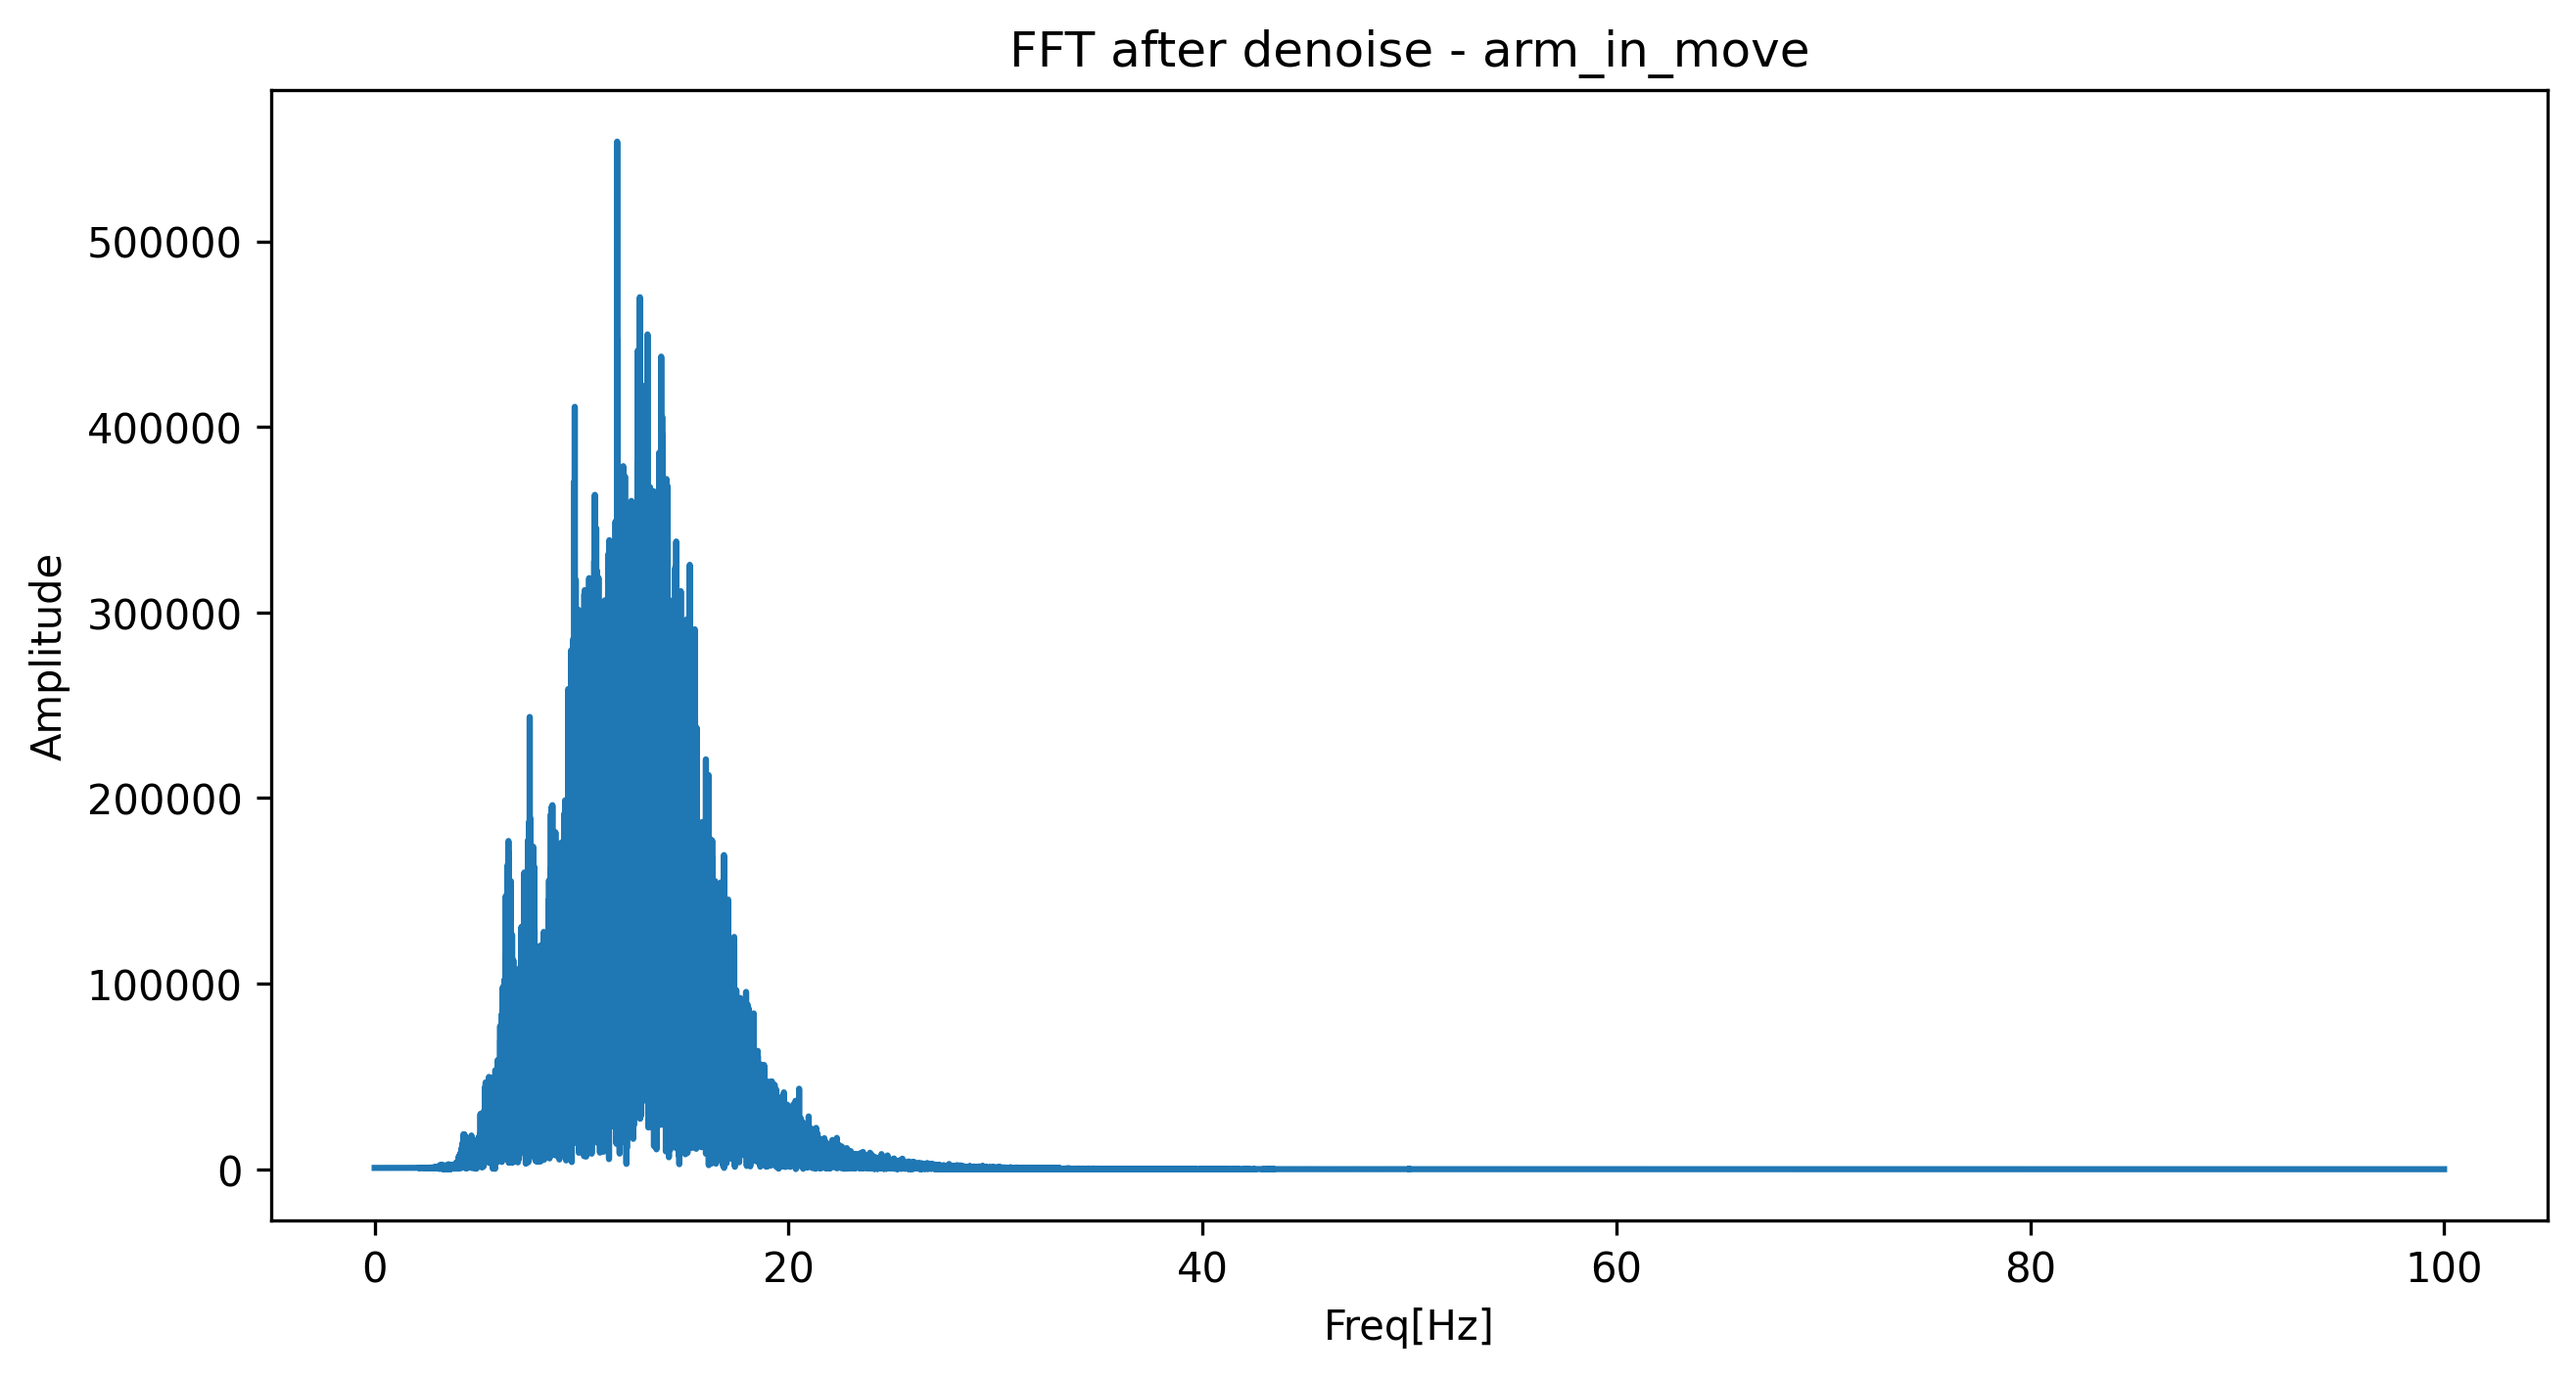
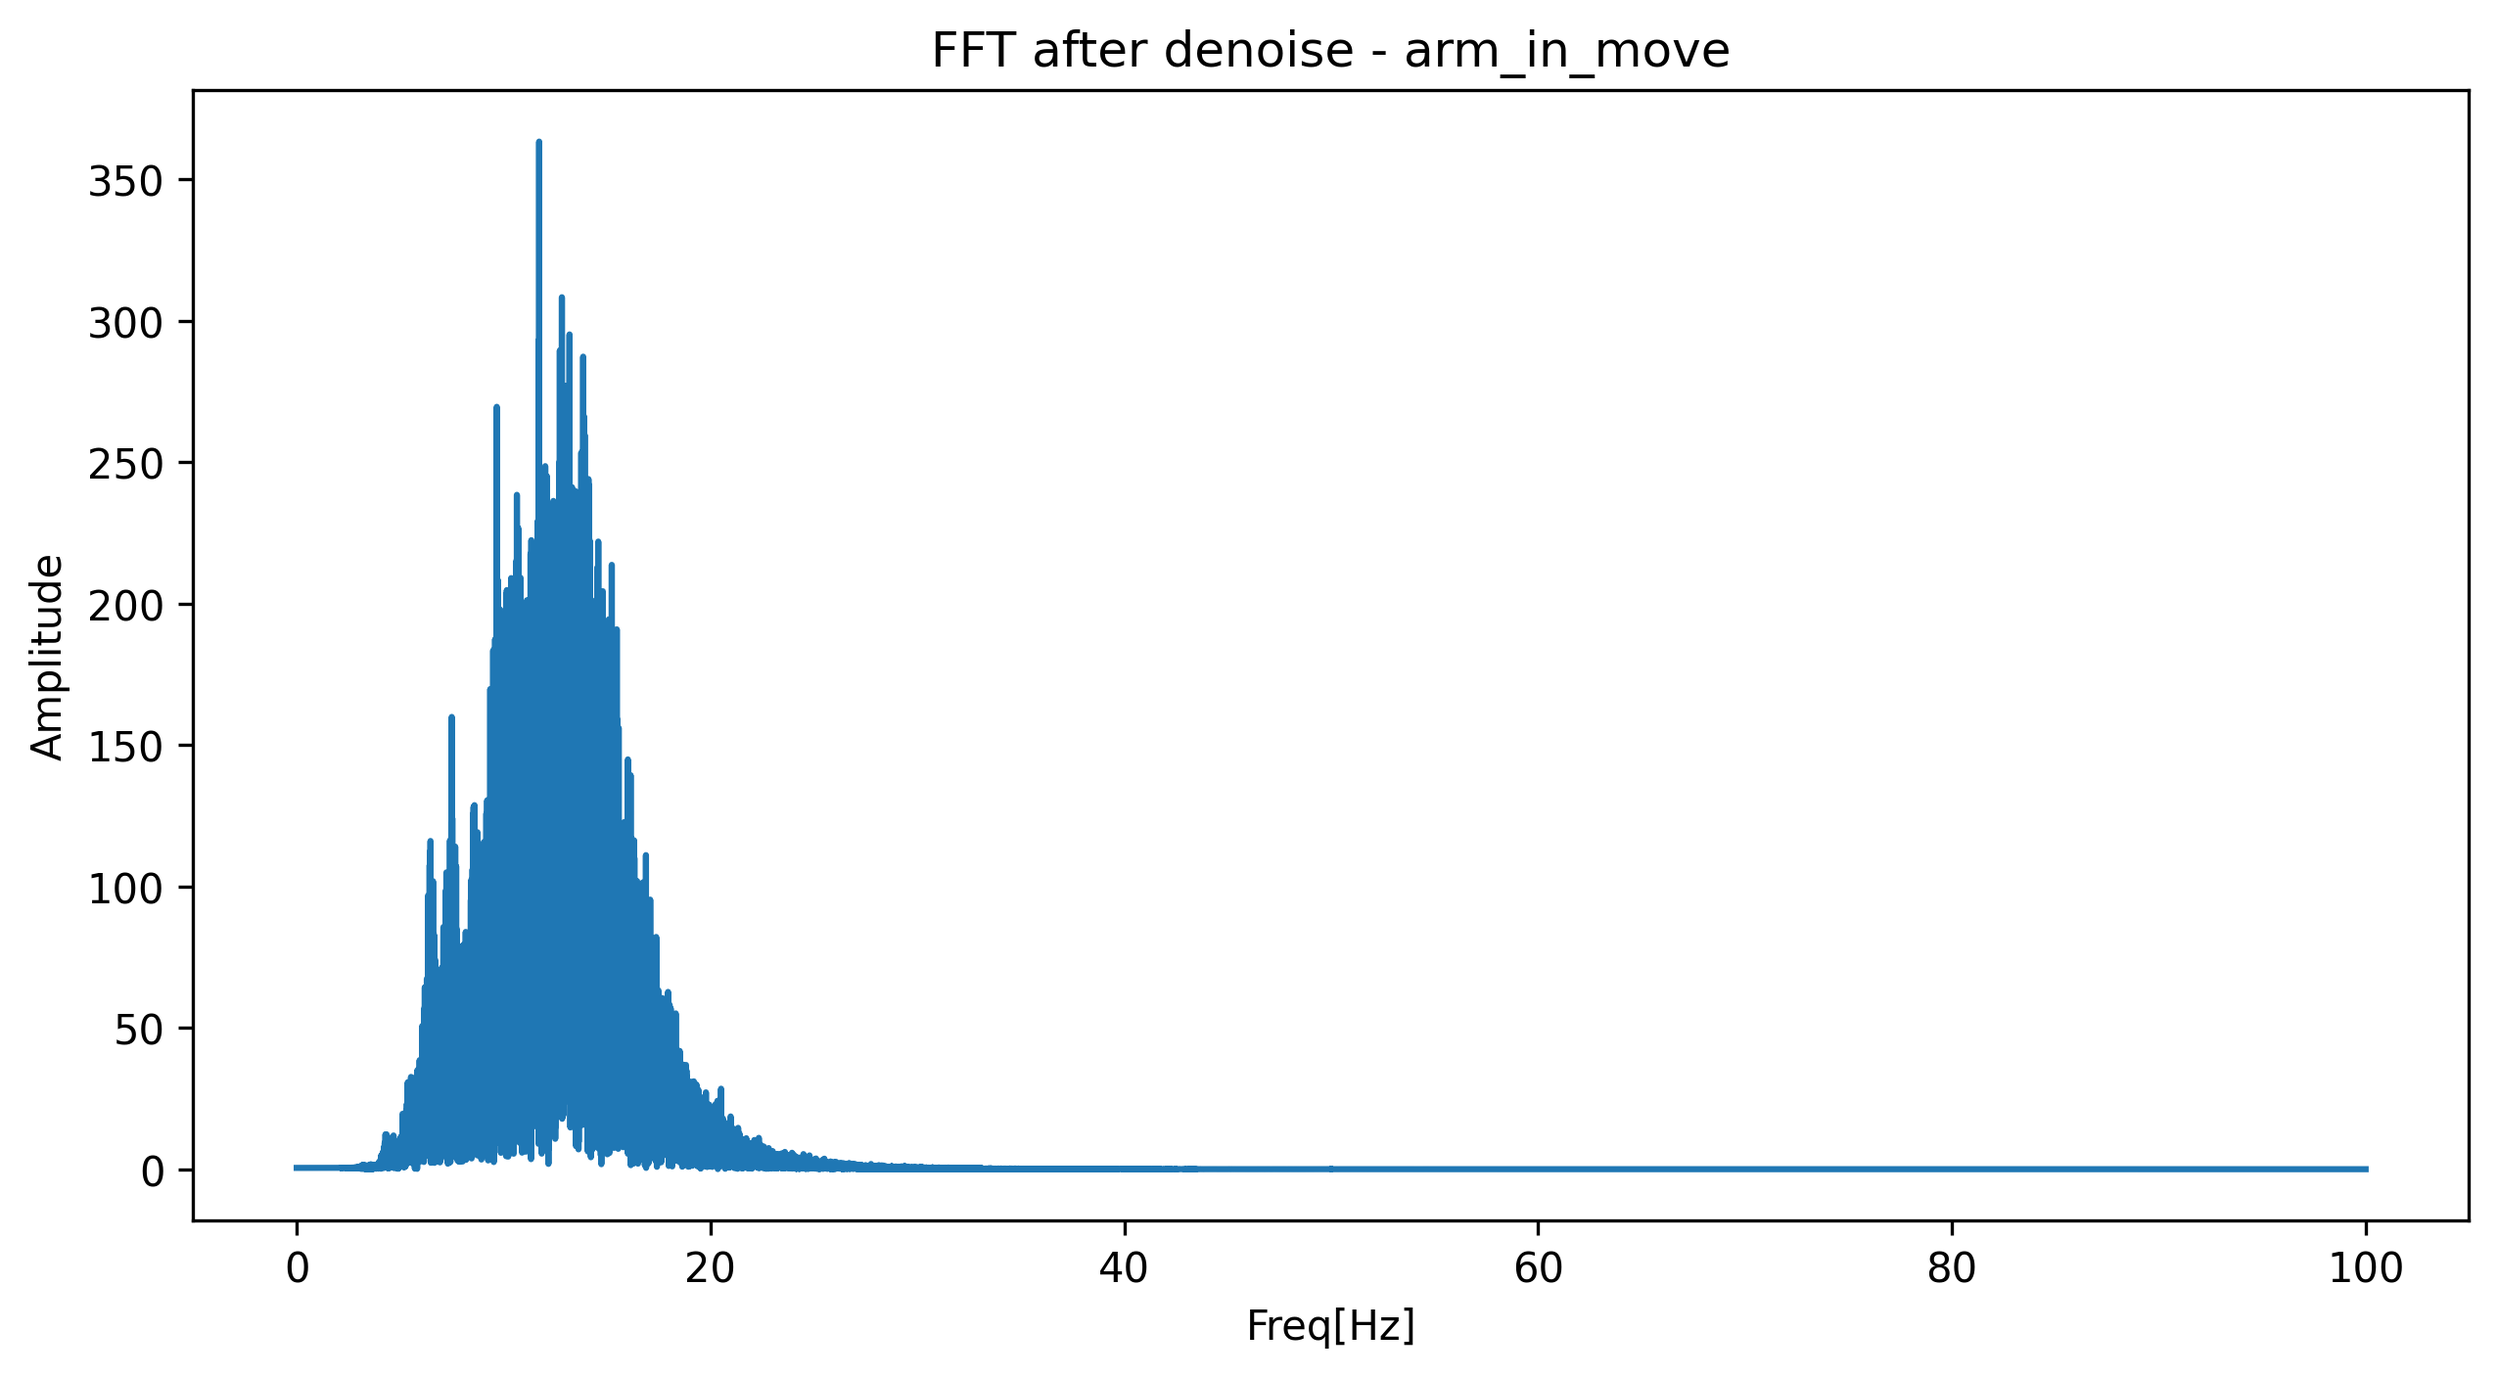
final

diff --git a/main.py b/main.py
@@ -1,126 +1,37 @@
 import numpy as np
-import matplotlib.pyplot as plt
 import pandas as pd
 from scipy import signal
-from import_data import import_from_files, get_filenames, get_tablename
+from import_data import get_filenames, get_tablename, import_from_files
+from plots import plot_fourier, plot_results
+from signal_processing import normalize, denoise, fourier, find_p_and_t, find_r_peaks, calculate_bpm
 from read_data import read_from_db
 
-def denoise(df: pd.DataFrame, derivative_filter: bool = True) -> tuple[pd.DataFrame, float]:
-    df = df.sort_values("timestamp").reset_index(drop=True)
-    df = df.set_index("timestamp")
-    dt: float = df.index.to_series().diff().median()
-    fs = 1/dt
-    lowcut = 5
-    highcut = 15
-    order = 3
-
-    b, a = signal.butter(N=order, Wn=[lowcut, highcut], btype="bandpass", fs=fs)
-    filtered = signal.filtfilt(b, a, df['value'].values)
-    if derivative_filter:
-        h = np.array([1, 2, 0, -2, -1])
-        filtered = signal.filtfilt(h, 1, filtered)
-    df['filtered'] = filtered
-
-    return df, fs
-
-def fourier(values, fs) -> tuple:
-    fft_values = np.fft.fft(values)
-    fft_frequencies = np.fft.fftfreq(len(values), d=1/fs)
-
-    mask = fft_frequencies > 0
-    fft_frequencies = fft_frequencies[mask]
-    fft_values = np.abs(fft_values[mask])
-    
-    return fft_frequencies, fft_values
-
-def plot_fourier(fft_frequencies, fft_values, title, filename) -> None:
-    plt.figure(figsize=(10, 5))
-    plt.plot(fft_frequencies, fft_values)
-    plt.xlabel('Freq[Hz]')
-    plt.ylabel('Amplitude')
-    plt.title(title)
-    plt.savefig(f"results/{filename}.png", dpi=300, bbox_inches="tight")
-    plt.show()
-
-def find_p_and_t(fs, filtered_data, r_peaks):
-    p_peaks = []
-    t_peaks = []
-
-    for r in r_peaks:
-        start_p = max(0, r - int(0.12*fs))
-        end_p = max(0, r - int(0.05*fs))
-        p_window = filtered_data[start_p: end_p]
-        if len(p_window):
-            p = np.argmax(p_window) + start_p
-            p_peaks.append(p)
-
-        start_t = r + int(0.08 * fs)
-        end_t = min(len(filtered_data), r + int(0.24 * fs))
-        t_window = filtered_data[start_t: end_t]
-        if len(t_window):
-            t = np.argmax(t_window) + start_t
-            t_peaks.append(t)
-
-    return p_peaks, t_peaks
-    
-def plot_results(df: pd.DataFrame, r_peaks: list, p_peaks: list, t_peaks: list, tablename: str) -> None:
-    t = df.index.to_numpy()
-    min_secs = 200
-    max_secs = 210
-    mask = (t >= min_secs) & (t <= max_secs)
-
-    values = df['value'].to_numpy()
-    filtered = df['filtered'].to_numpy()
-    
-    plt.figure(figsize=(12,4))
-    plt.plot(t[mask], values[mask], label="Surowy sygnal")
-    plt.plot(t[mask], filtered[mask], label="Wyfiltrowany sygnal")
-
-    rpq_mask = lambda x: [i for i in x if t[i] >= min_secs and t[i] <= max_secs]
-    
-    r_window = rpq_mask(r_peaks)
-    p_window = rpq_mask(p_peaks)
-    t_window = rpq_mask(t_peaks)
-    
-    plt.scatter(t[r_window], filtered[r_window], color="red", label="R")
-    plt.scatter(t[p_window], filtered[p_window], color="green", label="P")
-    plt.scatter(t[t_window], filtered[t_window], color="blue", label="T")
-
-    plt.xlabel("Time[s]")
-    plt.ylabel('EKG')
-    plt.title(f"R, P, T peaks in {min_secs} - {max_secs} seconds - {tablename}")
-    plt.legend()
-    plt.savefig(f"results/ekg_{tablename}.png", dpi=300, bbox_inches="tight")
-    plt.show()
-    
-def _main(filename: str, plot_fourier: bool = True) -> None:
+def _main(filename: str, plot_f: bool = True) -> None:
     tablename = get_tablename(filename)
     df = read_from_db(tablename=tablename)
     if df is None:
         print("Error")
         return
     df: pd.DataFrame
+    df = normalize(df)
     df, fs = denoise(df)
-
     
-    if plot_fourier:
+    if plot_f:
         fft_freq, fft_values = fourier(df['value'].values, fs)
         plot_fourier(fft_freq, fft_values, f"FFT before denoise - {tablename}", f"fft_no_denoised_{tablename}")
         fft_freq, fft_values = fourier(df['filtered'].values, fs)
         plot_fourier(fft_freq, fft_values, f"FFT after denoise - {tablename}", f"fft_denoised_{tablename}")
 
     filtered_data = df['filtered'].to_numpy()
-    min_dist = int(200 * 60 / 180)
-    
-    height = np.mean(filtered_data) + np.std(filtered_data)
-    r_peaks, _ = signal.find_peaks(filtered_data, distance=min_dist, height=height)
 
+    r_peaks = find_r_peaks(fs, filtered_data, tablename)
+    r_times = df.index.to_numpy()[r_peaks].astype("float")
+        
     p_peaks, t_peaks = find_p_and_t(fs, filtered_data, r_peaks)
 
-    r_to_r_times = np.diff(pd.to_datetime(df.index.to_numpy()[r_peaks]).astype("int64"))
-    bpm_avg = 60 / np.mean(r_to_r_times)
+    bpm_avg = calculate_bpm(r_times)
 
-    print(f"Avg BPM: {bpm_avg}")
+    print(f"Avg BPM: {bpm_avg:.1f}")
 
     plot_results(df, r_peaks, p_peaks, t_peaks, tablename)
     

diff --git a/signal_processing.py b/signal_processing.py
@@ -1,0 +1,86 @@
+import numpy as np
+import pandas as pd
+from scipy import signal
+
+
+def normalize(df: pd.DataFrame):
+    # Normalize signal to [-1; 1]
+    df['value_copy'] = df['value']
+    df['value'] = df['value'] - df['value'].mean()
+    df['value'] = df['value'] / np.max(np.abs(df['value']))
+    return df
+
+def denoise(df: pd.DataFrame, derivative_filter: bool = True) -> tuple[pd.DataFrame, float]:
+    df = df.sort_values("timestamp").reset_index(drop=True)
+    df = df.set_index("timestamp")
+    dt = np.diff(df.index.to_numpy()).astype("float").mean()
+    fs = 1/dt # 200
+    # pan tompkins algorithm
+    lowcut = 5 
+    highcut = 15
+    n = 3
+    Wn = [lowcut, highcut]
+
+    b, a = signal.butter(N=n, Wn=Wn, btype="bandpass", fs=fs)
+    filtered = signal.filtfilt(b, a, df['value'].values)
+    
+    if derivative_filter:
+        # pan tompkins algorithm
+        h = np.array([1, 2, 0, -2, -1])
+        filtered = signal.filtfilt(h, 1, filtered)
+
+    # normalization
+    filtered = filtered / np.max(np.abs(filtered))
+    df['filtered'] = filtered
+
+    return df, fs
+
+def fourier(values, fs) -> tuple:
+    fft_values = np.fft.fft(values)
+    fft_frequencies = np.fft.fftfreq(len(values), d=1/fs)
+
+    mask = fft_frequencies > 0
+    fft_frequencies = fft_frequencies[mask]
+    fft_values = np.abs(fft_values[mask])
+    
+    return fft_frequencies, fft_values
+
+def find_r_peaks(fs, filtered_data, tablename):
+    # peak finding parameters
+    min_dist = round(200 * fs / 1000)
+    height = np.mean(filtered_data) + 0.7 * np.std(filtered_data)
+    PROMINENCES = {
+        "no_move": 0.7,
+        "in_move": 0.3
+    }
+    prominence_key = next(filter(lambda key: key in tablename, PROMINENCES.keys()), "")
+    prominence = PROMINENCES.get(prominence_key)
+    
+    r_peaks, _ = signal.find_peaks(filtered_data, distance=min_dist, height=height, prominence=prominence)
+    return r_peaks
+
+def find_p_and_t(fs, filtered_data, r_peaks):
+    p_peaks = []
+    t_peaks = []
+
+    for r in r_peaks:
+        start_p = max(0, r - int(0.12*fs))
+        end_p = max(0, r - int(0.05*fs))
+        p_window = filtered_data[start_p: end_p]
+        if len(p_window):
+            p = np.argmax(p_window) + start_p
+            p_peaks.append(p)
+
+        start_t = r + int(0.08 * fs)
+        end_t = min(len(filtered_data), r + int(0.24 * fs))
+        t_window = filtered_data[start_t: end_t]
+        if len(t_window):
+            t = np.argmax(t_window) + start_t
+            t_peaks.append(t)
+
+    return p_peaks, t_peaks
+
+def calculate_bpm(peak_times):
+    r_to_r_intervals = np.diff(peak_times)
+    bpm = 60 / np.mean(r_to_r_intervals)
+    return bpm

diff --git a/plots.py b/plots.py
@@ -1,0 +1,47 @@
+from matplotlib import pyplot as plt
+import pandas as pd
+
+
+def plot_results(df: pd.DataFrame, r_peaks: list, p_peaks: list, t_peaks: list, tablename: str) -> None:
+    t = df.index.to_numpy()
+    min_secs = 200
+    max_secs = 210
+    mask = (t >= min_secs) & (t <= max_secs)
+
+    values = df['value'].to_numpy()
+    filtered = df['filtered'].to_numpy()
+    
+    fig, axes = plt.subplots(2, 1, figsize=(12, 6))
+    axes[0].plot(t[mask], values[mask], label="Surowy sygnal")
+    axes[0].set_title("Raw EKG signal")
+    axes[0].set_ylabel("Amplitude")
+    axes[0].set_xlabel("Time[s]")
+
+    axes[1].plot(t[mask], filtered[mask], color="orange", label="Processed EKG signal")
+
+    rpq_mask = lambda x: [i for i in x if t[i] >= min_secs and t[i] <= max_secs]
+    
+    r_window = rpq_mask(r_peaks)
+    p_window = rpq_mask(p_peaks)
+    t_window = rpq_mask(t_peaks)
+    
+    axes[1].scatter(t[r_window], filtered[r_window], color="red", label="R")
+    axes[1].scatter(t[p_window], filtered[p_window], color="green", label="P")
+    axes[1].scatter(t[t_window], filtered[t_window], color="blue", label="T")
+
+    axes[1].set_xlabel("Time[s]")
+    axes[1].set_ylabel('Amplitude')
+    axes[1].set_title(f"Processed EKG signal with R, P, T peaks in <{min_secs};{max_secs}> seconds - {tablename}")
+    axes[1].legend()
+    plt.tight_layout()
+    plt.savefig(f"results/ekg_{tablename}.png", dpi=300, bbox_inches="tight")
+    plt.show()
+
+def plot_fourier(fft_frequencies, fft_values, title, filename) -> None:
+    plt.figure(figsize=(10, 5))
+    plt.plot(fft_frequencies, fft_values)
+    plt.xlabel('Freq[Hz]')
+    plt.ylabel('Amplitude')
+    plt.title(title)
+    plt.savefig(f"results/{filename}.png", dpi=300, bbox_inches="tight")
+    plt.show()
